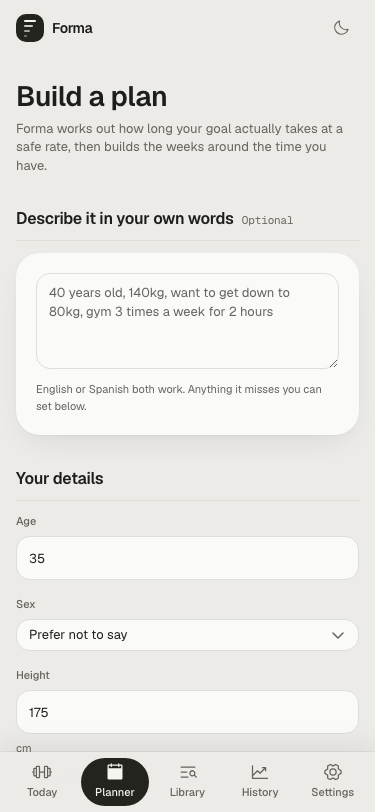
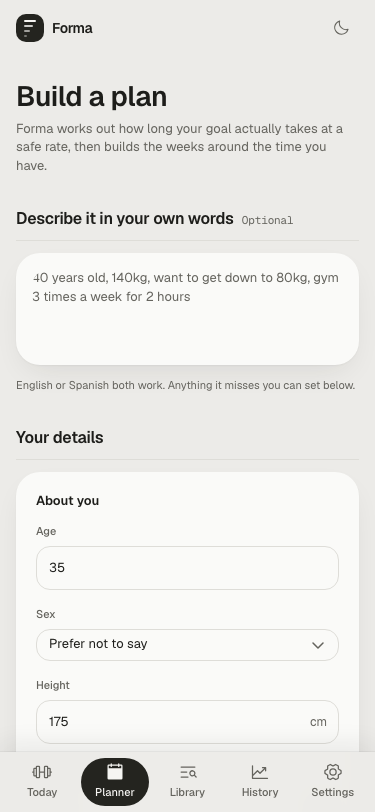
fix(onboarding): aligned form rows, one surface per thing, no ragged heights
The build-a-plan form read as careless: under-field unit hints ("cm", "kg",
"kg, leave empty if you have no target") gave every grid cell a different
height so rows never aligned, the textarea sat with its own border inside a
bordered panel, and loose fields floated on the page background.

- Units move inside the fields as suffixes (Input gains a suffix prop), so
  every row is one height and the grid actually aligns. The target's long hint
  becomes an "Optional" placeholder under its label.
- The describe box is one surface: a floating card whose textarea is
  borderless within it, with a brand focus ring on the whole card. Parse chips
  and their actions live inside it above a single hairline.
- The details become one panel with two aligned groups, About you and
  Training, split by one hairline.
- Found while verifying: bare "40 years" (without "old") did not parse as age;
  the parser accepts it now, with a test.

Verified live: focus ring, parse chips, Fill the form populating the grouped
fields, and mobile single-column collapse. tsc, oxlint, 43 tests, build and
both audit walks pass.

diff --git a/src/routes/Onboarding.tsx b/src/routes/Onboarding.tsx
@@ -112,14 +112,19 @@ export function OnboardingPage() {
       <div className="grid gap-8 lg:grid-cols-[1fr_22rem] lg:items-start">
         <div className="flex flex-col gap-8">
           <Section title="Describe it in your own words" hint="Optional">
-            <Panel padding="lg" className="flex flex-col gap-3">
+            <div
+              className={cn(
+                'flex flex-col gap-3 rounded-xl bg-surface p-4 shadow-[var(--shadow-panel)]',
+                'transition-shadow duration-150 focus-within:ring-2 focus-within:ring-brand',
+              )}
+            >
               <Textarea
                 value={text}
                 onChange={(e) => setText(e.target.value)}
                 rows={3}
                 placeholder="40 years old, 140kg, want to get down to 80kg, gym 3 times a week for 2 hours"
                 aria-label="Describe your situation"
-                className="min-h-24 w-full rounded-md border-line bg-surface px-3 py-2.5 text-sm"
+                className="min-h-20 w-full resize-none border-0 bg-transparent p-0 text-sm shadow-none focus:ring-0 focus-visible:outline-none"
               />
 
               {text.trim().length > 0 && (
@@ -147,7 +152,7 @@ export function OnboardingPage() {
                     </p>
                   ))}
 
-                  <div className="flex gap-2">
+                  <div className="flex gap-2 border-t border-line pt-3">
                     <Button
                       variant="secondary"
                       size="sm"
@@ -163,94 +168,105 @@ export function OnboardingPage() {
                   </div>
                 </>
               )}
-
-              <p className="text-2xs text-ink-3">
-                English or Spanish both work. Anything it misses you can set below.
-              </p>
-            </Panel>
+            </div>
+            <p className="text-2xs text-ink-3">
+              English or Spanish both work. Anything it misses you can set below.
+            </p>
           </Section>
 
           <Section title="Your details">
-            <div className="grid grid-cols-1 gap-4 sm:grid-cols-2 xl:grid-cols-3">
-              <Input
-                label="Age"
-                value={age}
-                onChange={(e) => setAge(e.target.value)}
-                inputMode="numeric"
-              />
-              <FormSelect
-                label="Sex"
-                value={sex}
-                onValueChange={(v) => setSex(v as typeof sex)}
-                options={(['hombre', 'mujer', 'otro'] as const).map((s) => ({
-                  value: s,
-                  label: SEX_LABELS[s],
-                }))}
-              />
-              <Input
-                label="Height"
-                value={height}
-                onChange={(e) => setHeight(e.target.value)}
-                inputMode="numeric"
-                hint="cm"
-              />
-              <Input
-                label="Current weight"
-                value={weight}
-                onChange={(e) => setWeight(e.target.value)}
-                inputMode="decimal"
-                hint="kg"
-              />
-              <Input
-                label="Target weight"
-                value={target}
-                onChange={(e) => setTarget(e.target.value)}
-                inputMode="decimal"
-                hint="kg, leave empty if you have no target"
-              />
-              <FormSelect
-                label="Goal"
-                value={goal}
-                onValueChange={(v) => setGoal(v as Goal)}
-                options={GOALS.map((g) => ({ value: g, label: GOAL_LABELS[g] }))}
-              />
-              <FormSelect
-                label="Experience"
-                value={level}
-                onValueChange={(v) => setLevel(v as Level)}
-                options={LEVELS.map((l) => ({ value: l, label: LEVEL_LABELS[l] }))}
-              />
-              <Input
-                label="Sessions per week"
-                value={days}
-                onChange={(e) => setDays(e.target.value)}
-                inputMode="numeric"
-              />
-              <Input
-                label="Minutes per session"
-                value={mins}
-                onChange={(e) => setMins(e.target.value)}
-                inputMode="numeric"
-              />
-              <FormSelect
-                label="Where you train"
-                value={place}
-                onValueChange={setPlace}
-                options={TRAINING_PLACE_OPTIONS}
-              />
-              <FormSelect
-                label="How hard you want to push"
-                value={effort}
-                onValueChange={setEffort}
-                options={[1, 2, 3, 4, 5].map((n) => ({
-                  value: String(n),
-                  label: EFFORT_LABELS[n],
-                }))}
-                className="sm:col-span-1"
-              />
-            </div>
-          </Section>
+            <Panel padding="lg" className="flex flex-col gap-6">
+              <fieldset className="flex flex-col gap-3">
+                <legend className="pb-3 text-sm font-semibold text-ink">About you</legend>
+                <div className="grid grid-cols-1 gap-4 sm:grid-cols-2 xl:grid-cols-3">
+                  <Input
+                    label="Age"
+                    value={age}
+                    onChange={(e) => setAge(e.target.value)}
+                    inputMode="numeric"
+                  />
+                  <FormSelect
+                    label="Sex"
+                    value={sex}
+                    onValueChange={(v) => setSex(v as typeof sex)}
+                    options={(['hombre', 'mujer', 'otro'] as const).map((s) => ({
+                      value: s,
+                      label: SEX_LABELS[s],
+                    }))}
+                  />
+                  <Input
+                    label="Height"
+                    value={height}
+                    onChange={(e) => setHeight(e.target.value)}
+                    inputMode="numeric"
+                    suffix="cm"
+                  />
+                  <Input
+                    label="Current weight"
+                    value={weight}
+                    onChange={(e) => setWeight(e.target.value)}
+                    inputMode="decimal"
+                    suffix="kg"
+                  />
+                  <Input
+                    label="Target weight"
+                    value={target}
+                    onChange={(e) => setTarget(e.target.value)}
+                    inputMode="decimal"
+                    suffix="kg"
+                    placeholder="Optional"
+                  />
+                  <FormSelect
+                    label="Goal"
+                    value={goal}
+                    onValueChange={(v) => setGoal(v as Goal)}
+                    options={GOALS.map((g) => ({ value: g, label: GOAL_LABELS[g] }))}
+                  />
+                </div>
+              </fieldset>
 
+              <fieldset className="flex flex-col gap-3 border-t border-line pt-5">
+                <legend className="float-left pb-3 text-sm font-semibold text-ink">Training</legend>
+                <div className="grid grid-cols-1 gap-4 sm:grid-cols-2 xl:grid-cols-3">
+                  <Input
+                    label="Sessions per week"
+                    value={days}
+                    onChange={(e) => setDays(e.target.value)}
+                    inputMode="numeric"
+                  />
+                  <Input
+                    label="Minutes per session"
+                    value={mins}
+                    onChange={(e) => setMins(e.target.value)}
+                    inputMode="numeric"
+                    suffix="min"
+                  />
+                  <FormSelect
+                    label="Experience"
+                    value={level}
+                    onValueChange={(v) => setLevel(v as Level)}
+                    options={LEVELS.map((l) => ({ value: l, label: LEVEL_LABELS[l] }))}
+                  />
+                  <FormSelect
+                    label="Where you train"
+                    value={place}
+                    onValueChange={setPlace}
+                    options={TRAINING_PLACE_OPTIONS}
+                  />
+                  <FormSelect
+                    label="How hard you want to push"
+                    value={effort}
+                    onValueChange={setEffort}
+                    options={[1, 2, 3, 4, 5].map((n) => ({
+                      value: String(n),
+                      label: EFFORT_LABELS[n],
+                    }))}
+                    className="xl:col-span-1"
+                  />
+                </div>
+              </fieldset>
+            </Panel>
+          </Section>
         </div>
 
         {/* The estimate updates as you type. Showing the maths is the product. */}

diff --git a/src/ui/Input.tsx b/src/ui/Input.tsx
@@ -5,15 +5,17 @@ interface InputProps extends Omit<InputHTMLAttributes<HTMLInputElement>, 'size'>
   label?: string
   hint?: string
   error?: string
+  /** Unit shown inside the field ("kg", "cm"), so rows keep one height. */
+  suffix?: string
   id?: string
 }
 
-export function Input({ label, hint, error, className, id, ...props }: InputProps) {
+export function Input({ label, hint, error, suffix, className, id, ...props }: InputProps) {
   const inputId =
     id ?? (label ? `f-${label.toLowerCase().replace(/[^a-z0-9]+/g, '-')}` : undefined)
   const describedBy = error ? `${inputId}-err` : hint ? `${inputId}-hint` : undefined
 
-  const field = (
+  const control = (
     <input
       id={inputId}
       aria-invalid={error ? true : undefined}
@@ -24,10 +26,22 @@ export function Input({ label, hint, error, className, id, ...props }: InputProp
         'focus:border-brand focus:outline-none',
         'disabled:cursor-not-allowed disabled:opacity-45',
         error ? 'border-danger' : 'border-line hover:border-line-strong',
+        suffix && 'pr-10',
         className,
       )}
       {...props}
     />
+  )
+
+  const field = suffix ? (
+    <span className="relative block">
+      {control}
+      <span className="pointer-events-none absolute top-1/2 right-3 -translate-y-1/2 text-xs text-ink-3">
+        {suffix}
+      </span>
+    </span>
+  ) : (
+    control
   )
 
   if (!label && !hint && !error) return field

diff --git a/src/lib/onboarding-parse.spec.ts b/src/lib/onboarding-parse.spec.ts
@@ -43,6 +43,12 @@ describe('parseOnboarding', () => {
     expect(confidence).toBeGreaterThan(0.5)
   })
 
+  it('parses bare "years" without "old"', () => {
+    const { partial } = parseOnboarding('male 40 years 120kg target 90kg gym 4 times a week 60min')
+    expect(partial.age).toBe(40)
+    expect(partial.targetWeightKg).toBe(90)
+  })
+
   it('parses English bodyweight and beginner wording', () => {
     const { partial } = parseOnboarding(
       'beginner woman, 65kg, calisthenics at home, 4 days a week, 45 minutes, build muscle',

diff --git a/src/lib/onboarding-parse.ts b/src/lib/onboarding-parse.ts
@@ -40,7 +40,7 @@ export function parseOnboarding(text: string): ParseResult {
 
   const ageM =
     t.match(/(\d{1,2})\s*(?:a[ñn]os|a[ñn]o)\b/i) ??
-    t.match(/(\d{1,2})\s*(?:years? old|yo|yrs?)\b/i) ??
+    t.match(/(\d{1,2})\s*(?:years?(?:\s+old)?|yo|yrs?)\b/i) ??
     t.match(/\bage[:\s]+(\d{1,2})\b/i)
   if (ageM) partial.age = clampInt(Number(ageM[1]), 12, 80)
 
